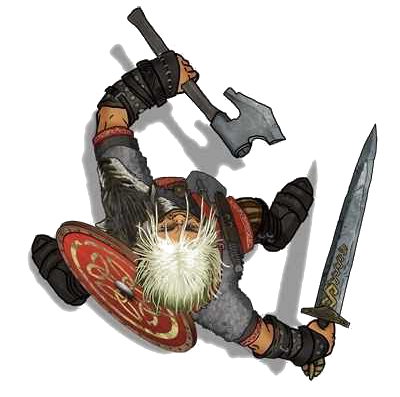
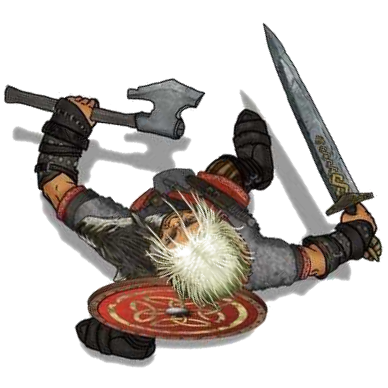
Draw image using the offset

diff --git a/src/main/java/com/gayasystem/games/dnd/drawables/AbstractDrawable.java b/src/main/java/com/gayasystem/games/dnd/drawables/AbstractDrawable.java
@@ -36,13 +36,19 @@ public abstract class AbstractDrawable implements Drawable {
 
     protected abstract BufferedImage image(InGameObject obj);
 
-    protected abstract int pixelsWidth(int pixelsPerMeter);
+    /**
+     * @return Image width in meter.
+     */
+    protected abstract double width();
 
-    protected abstract double widthOffset();
+    protected abstract int widthOffset();
 
-    protected abstract int pixelsDepth(int pixelsPerMeter);
+    /**
+     * @return Image depth in meter.
+     */
+    protected abstract double depth();
 
-    protected abstract double depthOffset();
+    protected abstract int depthOffset();
 
     private BufferedImage cropImage(Image image, int drawImgWidth, int drawImgDepth) throws IllegalArgumentException {
         // Image default position is to look forward to the right of the screen.
@@ -74,9 +80,11 @@ public abstract class AbstractDrawable implements Drawable {
         var thing = obj.thing();
         var d = new Data(pixelsPerMeter, point, thing.width(), thing.depth(), up.getAzimuth(), obj.orientation().getAzimuth());
 
-        var image = image(obj).getScaledInstance(d.width, d.height, Image.SCALE_SMOOTH);
+        int imgWidth = (int) (width() * pixelsPerMeter);
+        int imgHeight = (int) (depth() * pixelsPerMeter);
+        var image = image(obj).getScaledInstance(imgWidth, imgHeight, Image.SCALE_SMOOTH);
         var at = new AffineTransform();
-        at.translate(d.x, d.y);
+        at.translate(d.x - calculatedWidthOffset(obj, image), d.y - calculateDepthOffset(obj, image));
         at.rotate(d.rotation, (double) d.width / 2.0, (double) d.height / 2.0);
 
         g.drawImage(image, at, observer);
@@ -87,7 +95,7 @@ public abstract class AbstractDrawable implements Drawable {
         var d = new Data(pixelsPerMeter, point, thing.width(), thing.depth(), up.getAzimuth(), obj.orientation().getAzimuth());
 
         var origImg = image(obj);
-        var image = origImg.getScaledInstance(pixelsDepth(pixelsPerMeter), pixelsWidth(pixelsPerMeter), Image.SCALE_SMOOTH);
+        var image = origImg.getScaledInstance((int) (width() * pixelsPerMeter), (int) (depth() * pixelsPerMeter), Image.SCALE_SMOOTH);
         int imgWidth = image.getWidth(null);
         int imgHeight = image.getHeight(null);
 
@@ -113,6 +121,18 @@ public abstract class AbstractDrawable implements Drawable {
         g.setColor(red);
         g.drawRect(d.x, d.y, d.width, d.height);
         g.rotate(d.rotation, (double) d.width / 2.0, (double) d.height / 2.0);
+    }
+
+    private int calculatedWidthOffset(InGameObject obj, Image image) {
+        var img = image(obj);
+        double ratio = (double) image.getWidth(null) / img.getWidth();
+        return (int) (ratio * widthOffset());
+    }
+
+    private int calculateDepthOffset(InGameObject obj, Image image) {
+        var img = image(obj);
+        double ratio = (double) image.getHeight(null) / img.getHeight();
+        return (int) (ratio * depthOffset());
     }
 
     @Override

diff --git a/src/main/java/com/gayasystem/games/dnd/drawables/food/DrawableCarrot.java b/src/main/java/com/gayasystem/games/dnd/drawables/food/DrawableCarrot.java
@@ -17,14 +17,13 @@ public class DrawableCarrot extends AbstractDrawable {
 
     private final BufferedImage img;
     private final double width;
-    private final double height;
+    private final double depth;
 
     public DrawableCarrot() throws IOException {
         super(log);
         img = ImageIO.read(Objects.requireNonNull(this.getClass().getResource("/images/food/Carrot.png")));
-        double ratio = 0.10;
-        width = 12 * ratio;
-        height = 8 * ratio;
+        width = 0.12;
+        depth = 0.8;
     }
 
     @Override
@@ -33,22 +32,22 @@ public class DrawableCarrot extends AbstractDrawable {
     }
 
     @Override
-    protected int pixelsWidth(int pixelsPerMeter) {
+    protected double width() {
+        return width;
+    }
+
+    @Override
+    protected int widthOffset() {
         return 0;
     }
 
     @Override
-    protected double widthOffset() {
-        return 0.0;
+    protected double depth() {
+        return depth;
     }
 
     @Override
-    protected int pixelsDepth(int pixelsPerMeter) {
+    protected int depthOffset() {
         return 0;
-    }
-
-    @Override
-    protected double depthOffset() {
-        return 0.12;
     }
 }

diff --git a/src/main/java/com/gayasystem/games/dnd/drawables/races/DrawableHuman.java b/src/main/java/com/gayasystem/games/dnd/drawables/races/DrawableHuman.java
@@ -35,7 +35,7 @@ public class DrawableHuman extends AbstractDrawable {
         super(logger);
         imgFemale = ImageIO.read(Objects.requireNonNull(this.getClass().getResource("/images/races/HumanFemale.png")));
         imgMale = ImageIO.read(Objects.requireNonNull(this.getClass().getResource("/images/races/HumanMale.png")));
-        size = 2.8;
+        size = 0.8 * 388 / 150;
     }
 
     @Override
@@ -45,22 +45,22 @@ public class DrawableHuman extends AbstractDrawable {
     }
 
     @Override
-    protected int pixelsWidth(int pixelsPerMeter) {
-        return 0;
+    protected double width() {
+        return size;
     }
 
     @Override
-    protected double widthOffset() {
-        return 0;
+    protected int widthOffset() {
+        return 150;
     }
 
     @Override
-    protected int pixelsDepth(int pixelsPerMeter) {
-        return 0;
+    protected double depth() {
+        return size;
     }
 
     @Override
-    protected double depthOffset() {
-        return 0;
+    protected int depthOffset() {
+        return 180;
     }
 }

diff --git a/src/main/java/com/gayasystem/games/dnd/drawables/houses/DrawableWall.java b/src/main/java/com/gayasystem/games/dnd/drawables/houses/DrawableWall.java
@@ -35,22 +35,22 @@ public class DrawableWall extends AbstractDrawable {
     }
 
     @Override
-    protected int pixelsWidth(int pixelsPerMeter) {
-        return (int) (pixelsPerMeter * size);
+    protected double width() {
+        return size;
     }
 
     @Override
-    protected double widthOffset() {
+    protected int widthOffset() {
         return 0;
     }
 
     @Override
-    protected int pixelsDepth(int pixelsPerMeter) {
-        return (int) (pixelsPerMeter * size);
+    protected double depth() {
+        return size;
     }
 
     @Override
-    protected double depthOffset() {
+    protected int depthOffset() {
         return 0;
     }
 }

diff --git a/src/main/java/com/gayasystem/games/dnd/drawables/beasts/DrawableAlmiraj.java b/src/main/java/com/gayasystem/games/dnd/drawables/beasts/DrawableAlmiraj.java
@@ -29,22 +29,22 @@ public class DrawableAlmiraj extends AbstractDrawable {
     }
 
     @Override
-    protected int pixelsWidth(int pixelsPerMeter) {
+    protected double width() {
         return 0;
     }
 
     @Override
-    protected double widthOffset() {
+    protected int widthOffset() {
         return 0;
     }
 
     @Override
-    protected int pixelsDepth(int pixelsPerMeter) {
+    protected double depth() {
         return 0;
     }
 
     @Override
-    protected double depthOffset() {
+    protected int depthOffset() {
         return 0;
     }
 }

diff --git a/src/main/java/com/gayasystem/games/dnd/Application.java b/src/main/java/com/gayasystem/games/dnd/Application.java
@@ -40,7 +40,7 @@ public class Application extends JFrame implements KeyListener {
         setJMenuBar(menuBar());
 
         gameSetUp();
-        setUpUI(3.0);
+        setUpUI(4.0);
         addKeyListener(this);
         setUpScreen();
     }
